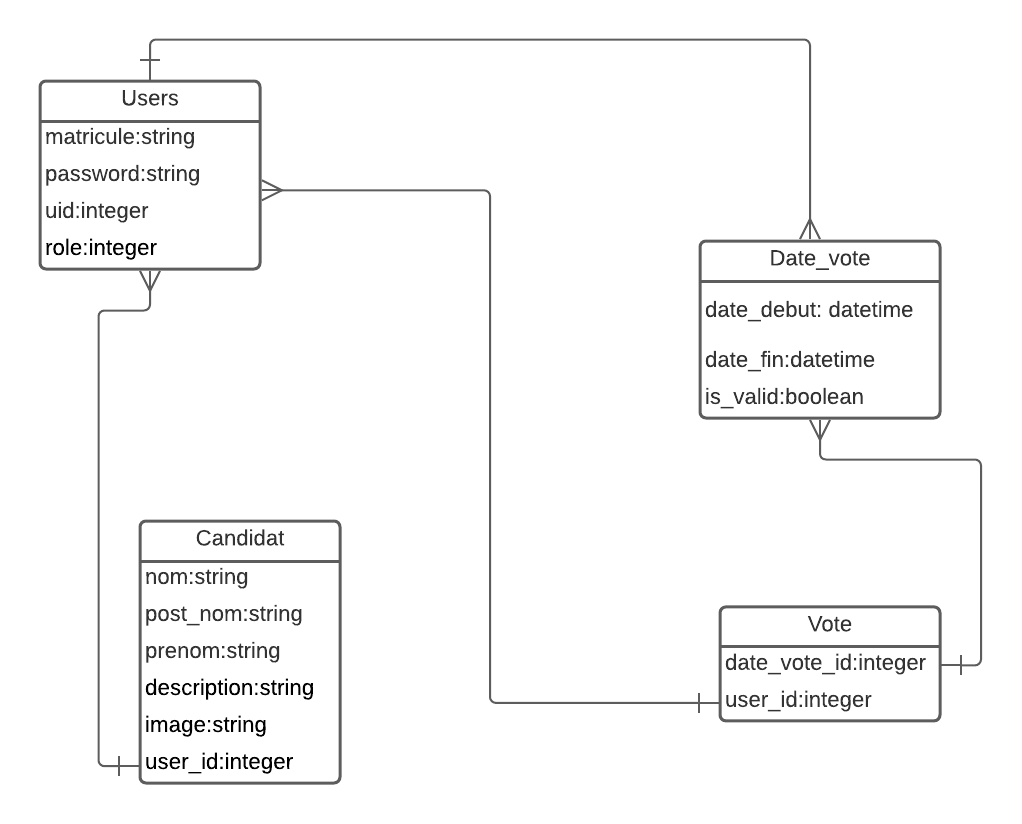
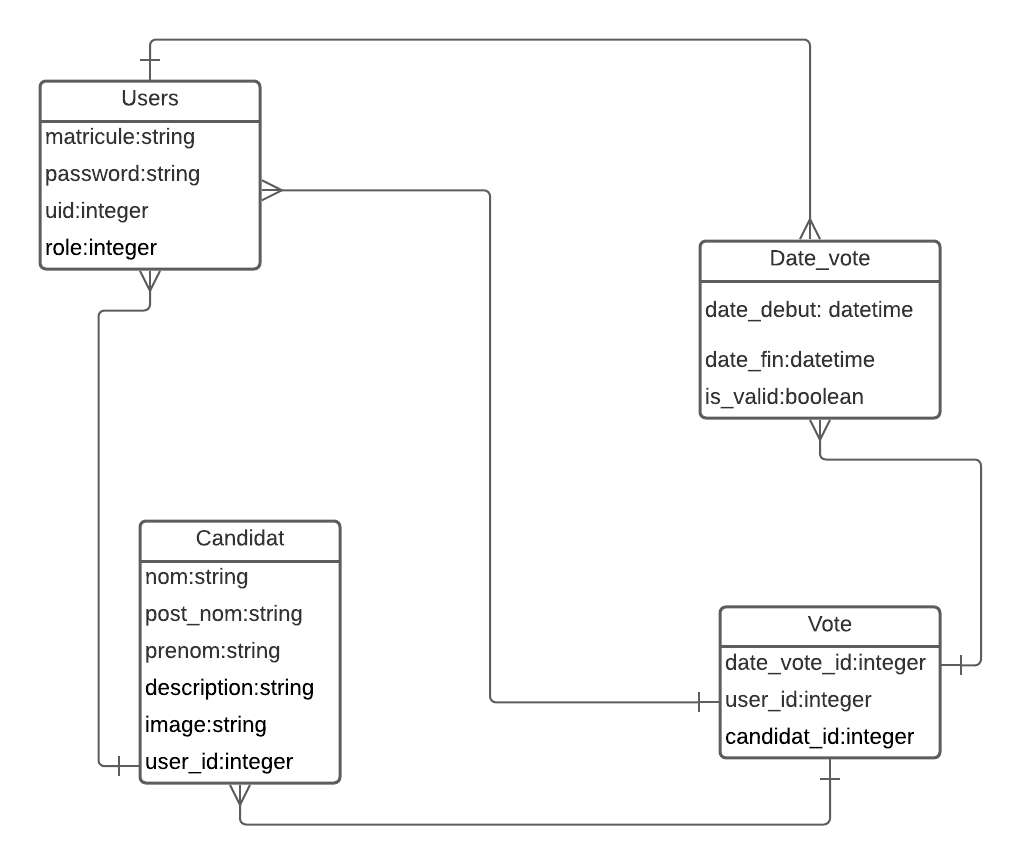
Ajout de la relation entre candidat et vote

diff --git a/db/schema.rb b/db/schema.rb
@@ -10,7 +10,7 @@
 #
 # It's strongly recommended that you check this file into your version control system.
 
-ActiveRecord::Schema.define(version: 2021_09_29_090842) do
+ActiveRecord::Schema.define(version: 2021_09_30_025204) do
 
   # These are extensions that must be enabled in order to support this database
   enable_extension "plpgsql"
@@ -98,6 +98,8 @@ ActiveRecord::Schema.define(version: 2021_09_29_090842) do
     t.bigint "user_id", null: false
     t.datetime "created_at", precision: 6, null: false
     t.datetime "updated_at", precision: 6, null: false
+    t.bigint "candidat_id", null: false
+    t.index ["candidat_id"], name: "index_votes_on_candidat_id"
     t.index ["date_vote_id"], name: "index_votes_on_date_vote_id"
     t.index ["user_id"], name: "index_votes_on_user_id"
   end
@@ -106,6 +108,7 @@ ActiveRecord::Schema.define(version: 2021_09_29_090842) do
   add_foreign_key "active_storage_variant_records", "active_storage_blobs", column: "blob_id"
   add_foreign_key "candidats", "users"
   add_foreign_key "users", "date_votes"
+  add_foreign_key "votes", "candidats"
   add_foreign_key "votes", "date_votes"
   add_foreign_key "votes", "users"
 end

diff --git a/app/controllers/api/vote_controller.rb b/app/controllers/api/vote_controller.rb
@@ -7,7 +7,7 @@ class VoteController < ApplicationController
     end
 
     def create 
-        vote = Vote.create(user_id: params[:user_id], date_vote_id: params[:date_vote_id])
+        vote = Vote.create(user_id: params[:user_id], date_vote_id: params[:date_vote_id], candidat_id: params[:candidat])
         render json: vote
     end
 end

diff --git a/app/models/user.rb b/app/models/user.rb
@@ -8,6 +8,7 @@ class User < ActiveRecord::Base
          :recoverable, :rememberable, :validatable, authentication_keys: [:matricule]
 
   include DeviseTokenAuth::Concerns::User
+  has_one :vote
  
   enum role: {admin: 1, cp: 2, candidate: 3}
 

diff --git a/app/models/candidat.rb b/app/models/candidat.rb
@@ -1,6 +1,7 @@
 class Candidat < ApplicationRecord
   belongs_to :user
   has_one_attached :image
+  has_many :votes
 
   validates_presence_of :nom, :post_nom, :promotion
   validates_uniqueness_of :nom, scope: %i[post_nom prenom]

diff --git a/db/migrate/20210930025204_add_candidate_to_votes.rb b/db/migrate/20210930025204_add_candidate_to_votes.rb
@@ -1,0 +1,5 @@
+class AddCandidateToVotes < ActiveRecord::Migration[6.1]
+  def change
+    add_reference :votes, :candidat, null: false, foreign_key: true
+  end
+end
